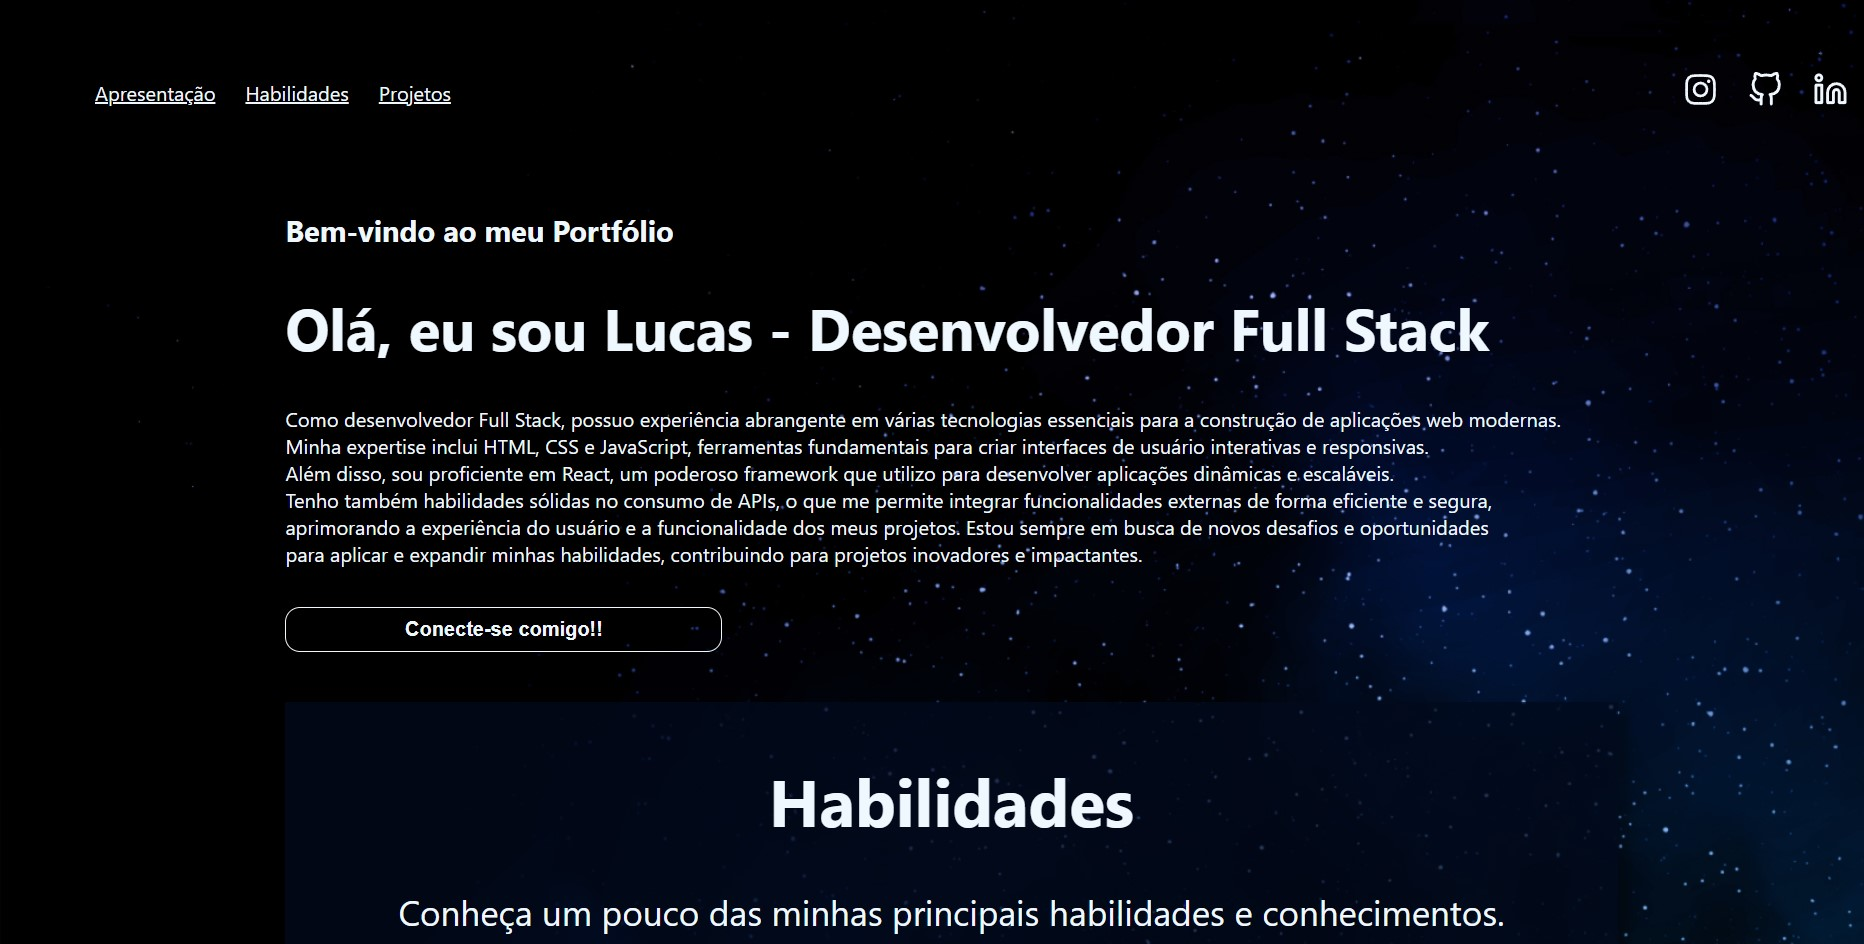
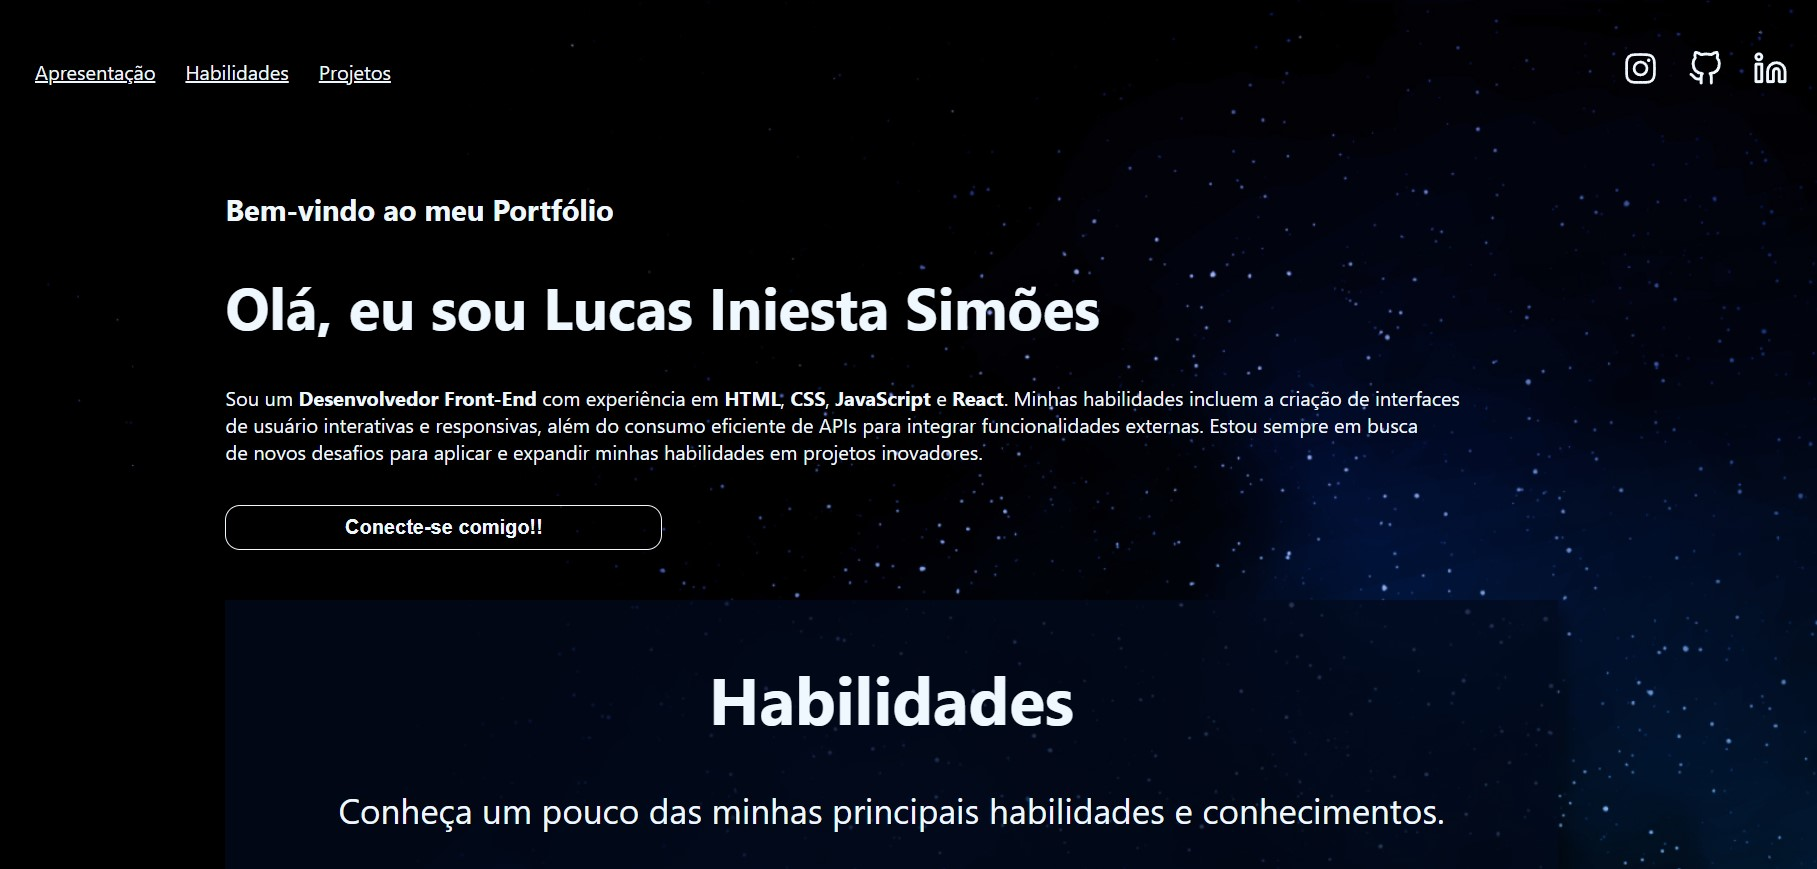
Criação do componente Footer e finalização do projeto

diff --git a/src/componentes/sections/Presentation.js b/src/componentes/sections/Presentation.js
@@ -5,16 +5,13 @@ function Presentation(){
     return(
         <div className={styles.presentation} id="Presentation">
             <h2>Bem-vindo ao meu Portfólio</h2>
-            <h1>Olá, eu sou Lucas - Desenvolvedor Full Stack</h1>
+            <h1>Olá, eu sou Lucas Iniesta Simões</h1>
             <p>
-                Como desenvolvedor Full Stack, possuo experiência abrangente em várias tecnologias essenciais para a construção de aplicações web modernas. <br/>
-                Minha expertise inclui HTML, CSS e JavaScript, ferramentas fundamentais para criar interfaces de usuário interativas e responsivas. <br/>
-                Além disso, sou proficiente em React, um poderoso framework que utilizo para desenvolver aplicações dinâmicas e escaláveis. <br/>
-                Tenho também habilidades sólidas no consumo de APIs, o que me permite integrar funcionalidades externas de forma eficiente e segura, <br/>
-                aprimorando a experiência do usuário e a funcionalidade dos meus projetos. Estou sempre em busca de novos desafios e oportunidades <br/>
-                para aplicar e expandir minhas habilidades, contribuindo para projetos inovadores e impactantes.
+            Sou um <strong>Desenvolvedor Front-End</strong> com experiência em <strong>HTML</strong>, <strong>CSS</strong>, <strong>JavaScript</strong>  e <strong>React</strong>. Minhas habilidades incluem a criação de interfaces <br/> 
+            de usuário interativas e responsivas, além do consumo eficiente de APIs para integrar funcionalidades externas. Estou sempre em busca <br/> 
+            de novos desafios para aplicar e expandir minhas habilidades em projetos inovadores.
             </p>
-            <ButtonA text='Conecte-se comigo!!' link='https://github.com/LucasIniesta'/>
+            <ButtonA text='Conecte-se comigo!!' link='https://www.linkedin.com/in/lucas-iniesta-simoes/' target="_blank"/>
         </div>
     )
 }

diff --git a/src/componentes/sections/Projects.js b/src/componentes/sections/Projects.js
@@ -1,15 +1,39 @@
 import styles from './Projects.module.css'
 import ButtonA from '../elements/ButtonA'
 import Card from '../elements/Card'
+import dncWeather from '../../Images/projetos/dncWeather.jpg'
+import lpArquitetura from '../../Images/projetos/lpArquitetura.jpg'
+import portfolio from '../../Images/projetos/portfolio.jpg'
 
 function Projects(){
     return(
         <div className={styles.projects} id="Projects">
             <h1>Projetos</h1>
-            <Card/>
-            <Card/>
-            <Card/>
-            <ButtonA text='Ver repositório completo'/>  
+            <Card
+                image={dncWeather}
+                title='DNC Weather'
+                tech='HTML, CSS e JavaScript'
+                description='Página para consulta ao clima e informações de CEP'
+                repo='https://github.com/LucasIniesta/pagina-previsao-do-tempo-e-consulta-cep'
+                site='https://dncweather-consulta-clima-e-cep.netlify.app/'
+            />
+            <Card
+                image={lpArquitetura}
+                title='LP Arquitetura'
+                tech='HTML e CSS'
+                description='Landing Page de um grupo de Arquitetura fictício'
+                repo='https://github.com/LucasIniesta/Landing-Page-Arquitetura'
+                site='https://testelandingpagearquitetura.netlify.app/'
+            />
+            <Card
+                image={portfolio}
+                title='Meu portfolio'
+                tech='HTML, CSS, JavaScript e React'
+                description='Um portfolio interativo apresentando o que sei fazer'
+                repo='https://github.com/LucasIniesta/portfolio'
+                site=''
+            />
+            <ButtonA link='https://github.com/LucasIniesta?tab=repositories' target='_blank' text='Ver repositório completo'/>  
         </div>
     )
 }

diff --git a/src/componentes/elements/Card.js b/src/componentes/elements/Card.js
@@ -1,17 +1,15 @@
 import styles from './Card.module.css'
 import ButtonA from './ButtonA'
- 
-import dncWeather from '../../Images/projetos/dncWeather.jpg'
 
-function Card(){
+function Card({image, title, tech, description, repo, site}){
     return(
         <div className={styles.card}>
-            <img src={dncWeather}/>
+            <a href={site} target='_blank'><img src={image}/></a> 
             <section>
-                <h3>Título</h3>
-                <p><strong>Tecnologias: </strong> tecs</p>
-                <p>Descrição</p>
-                <ButtonA text='Acesse o repositório'/>
+                <h3>{title}</h3>
+                <p><strong>Tecnologias: </strong> {tech}</p>
+                <p>{description}</p>
+                <ButtonA link={repo} text='Acesse o repositório'/>
             </section>
         </div>
     )

diff --git a/src/componentes/sections/Footer.js b/src/componentes/sections/Footer.js
@@ -1,7 +1,17 @@
+import styles from './Footer.module.css'
+import { FaInstagram } from "react-icons/fa6"
+import { FiGithub, FiLinkedin } from "react-icons/fi"
+
 function Footer(){
     return(
-        <div>
-            <h1>Aqui ficará meu rodapé</h1>
+        <div className={styles.footer}>
+            <p>l.iniesta.94@gmail.com</p>
+            <ul>
+                <li><a href='https://www.instagram.com/iniesta_lucas/' target='_blank'><FaInstagram size={35}/></a></li>
+                <li><a href='https://github.com/LucasIniesta' target='_blank'><FiGithub size={35}/></a></li>
+                <li><a href='https://www.linkedin.com/in/lucas-iniesta-simoes/' target='_blank'><FiLinkedin size={35}/></a></li>
+            </ul>
+            <p>Lucas Iniesta Simões © 2024</p>   
         </div>
     )
 }

diff --git a/src/componentes/elements/Card.module.css b/src/componentes/elements/Card.module.css
@@ -1,7 +1,9 @@
 .card img{
     width: 550px;
+    height: 350px;
     border-radius: 15px;
     cursor: pointer;
+    margin: 25px;
 } 
 
 .card img:hover{
@@ -12,7 +14,7 @@
 
 .card{
     display: flex;
-    justify-content: space-around;
+    justify-content: center;
     margin: 40px 10% 40px 10%;
 }
 
@@ -24,5 +26,5 @@
     box-shadow: 10px 10px 10px rgba(0,0,0.25,0.50);
     text-align: left;
     font-size: 32px;
-    line-height: 16px;
+    line-height: 32px;
 }

diff --git a/src/componentes/sections/Footer.module.css b/src/componentes/sections/Footer.module.css
@@ -1,0 +1,21 @@
+.footer{
+    display: flex;
+    align-items: center;
+    justify-content: space-evenly;
+    margin-top: 75px;
+    font-size: 20px;
+    font-weight: bolder;
+}
+
+.footer ul{
+    display: flex;
+    list-style: none;
+}
+
+.footer a{
+    color: aliceblue !important;
+}
+
+.footer li{
+    margin-right: 20px;
+}
